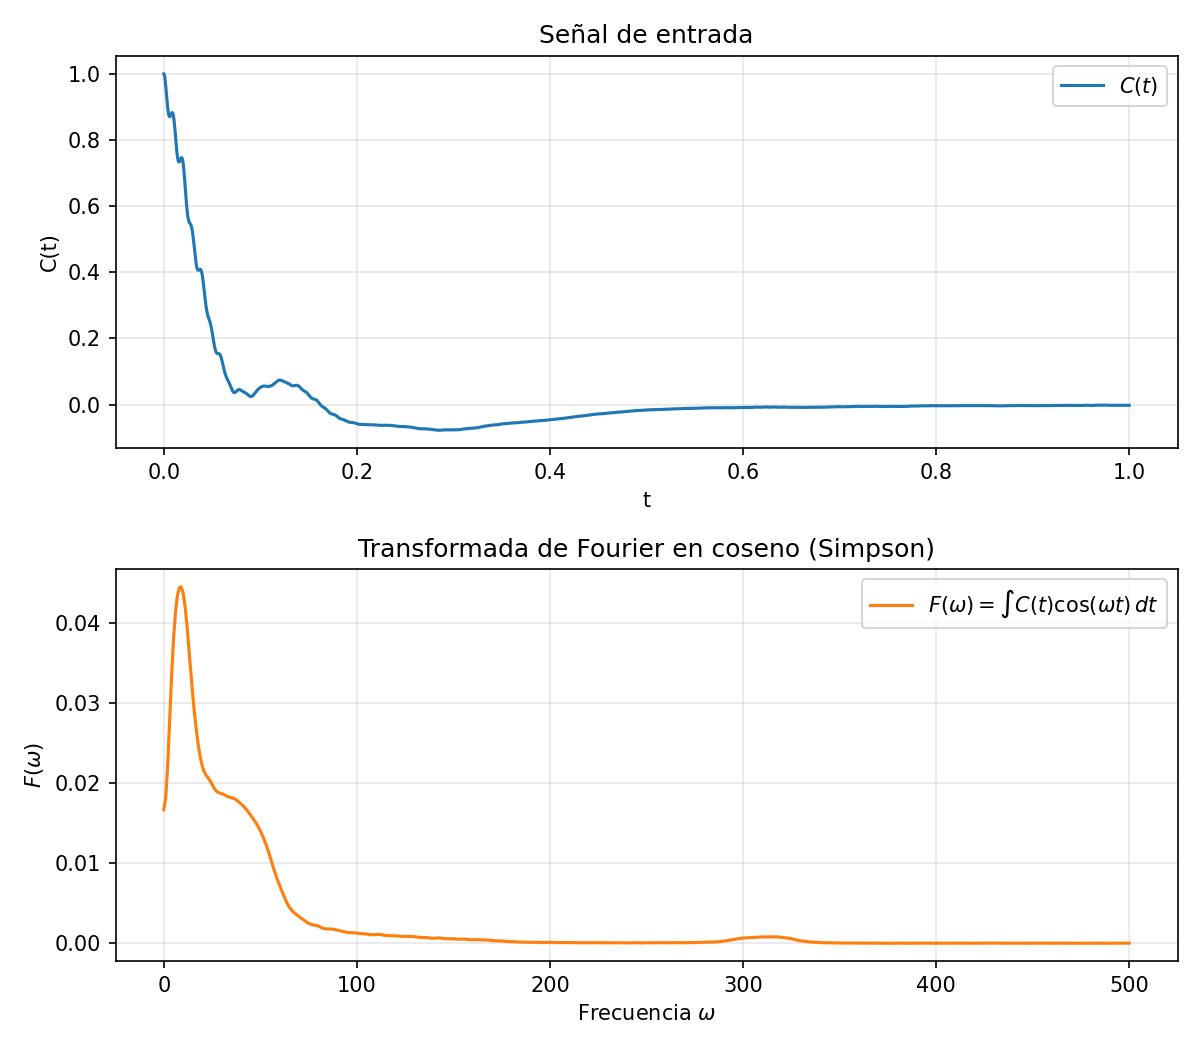
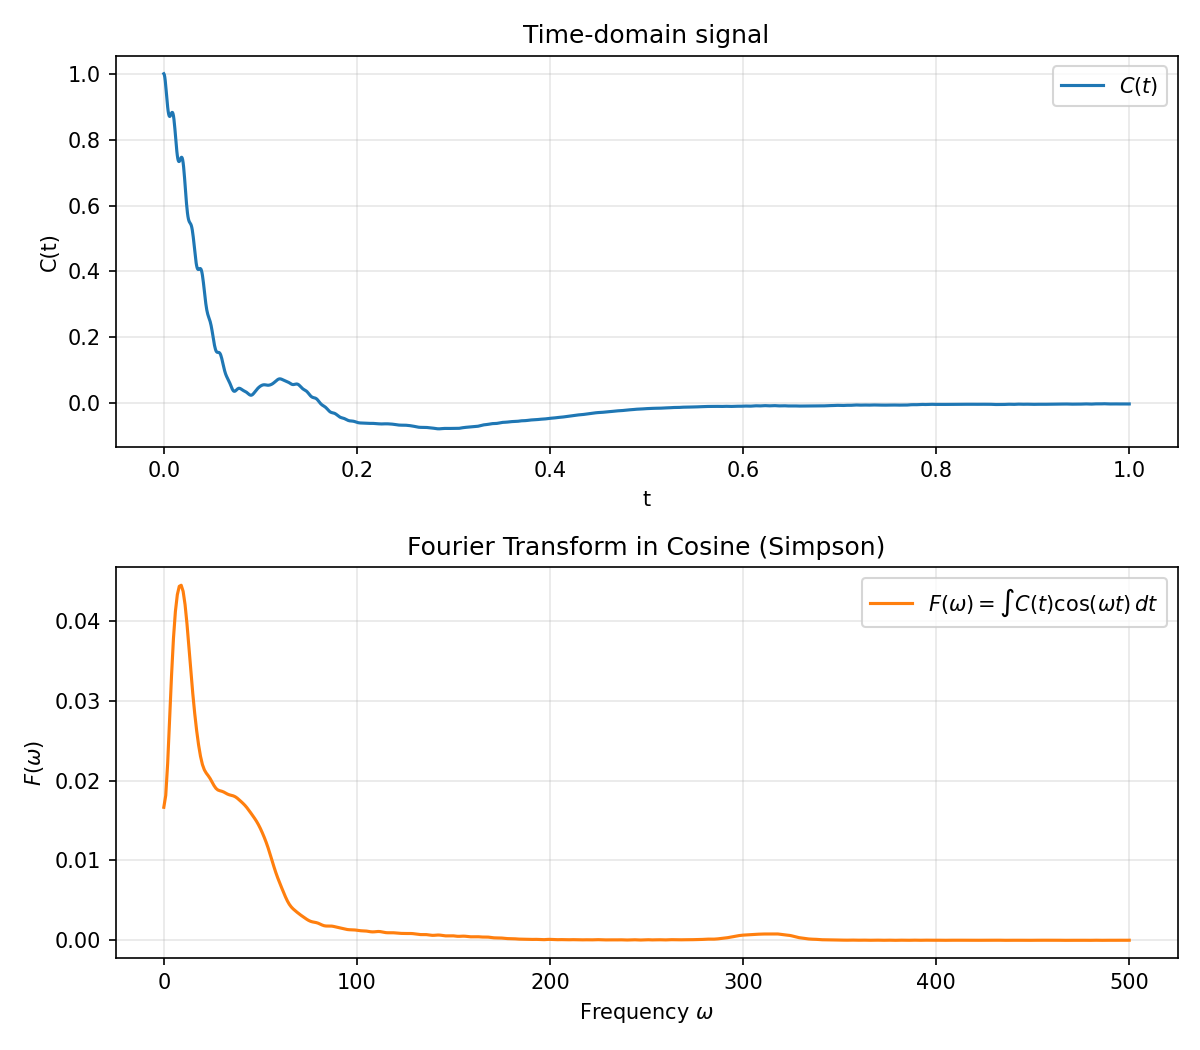
Updated P1 documents in English

diff --git a/P1/ex5/plot_ex5.py b/P1/ex5/plot_ex5.py
@@ -4,10 +4,10 @@ import numpy as np
 
 # Carga de archivos .dat omitiendo la cabecera de texto con skiprows=1
 t_001, x_001, _ = np.loadtxt("euler_001.dat", skiprows=1, unpack=True)
-t_01,  x_01,  _ = np.loadtxt("euler_01.dat",  skiprows=1, unpack=True)
-t_02,  x_02,  _ = np.loadtxt("euler_02.dat",  skiprows=1, unpack=True)
+t_01, x_01, _ = np.loadtxt("euler_01.dat", skiprows=1, unpack=True)
+t_02, x_02, _ = np.loadtxt("euler_02.dat", skiprows=1, unpack=True)
 t_prd, x_prd, _ = np.loadtxt("euler_predictor.dat", skiprows=1, unpack=True)
-t_ver, x_ver, _ = np.loadtxt("verlet.dat",    skiprows=1, unpack=True)
+t_ver, x_ver, _ = np.loadtxt("verlet.dat", skiprows=1, unpack=True)
 
 # Solución analítica del oscilador armónico: x(t) = x_0 * cos(omega * t)
 # omega = sqrt(k / m) = sqrt(2.0 / 0.2) = sqrt(10) ≈ 3.1622777
@@ -19,23 +19,41 @@ x_exact = 0.05 * np.cos(omega * t_fine)
 fig, (ax1, ax2) = plt.subplots(2, 1, figsize=(8, 7), sharex=True)
 
 # Panel 1: Efecto del cambio de paso de tiempo dt en el método de Euler
-ax1.plot(t_fine, x_exact, color="black", linestyle="--", linewidth=1.2, label="Analítica", alpha=0.7)
-ax1.plot(t_001,  x_001,  color="#1f77b4", linewidth=1.0, label=r"Euler $\Delta t = 0.001$")
-ax1.plot(t_01,   x_01,   color="#ff7f0e", linewidth=1.2, label=r"Euler $\Delta t = 0.01$")
-ax1.plot(t_02,   x_02,   color="#2ca02c", linewidth=1.2, label=r"Euler $\Delta t = 0.02$")
-ax1.set_ylabel("Posición $x$ (m)")
-ax1.set_title("Influencia del paso temporal $\Delta t$ en el método de Euler")
+ax1.plot(
+    t_fine,
+    x_exact,
+    color="black",
+    linestyle="--",
+    linewidth=1.2,
+    label="Analytical",
+    alpha=0.7,
+)
+ax1.plot(
+    t_001, x_001, color="#1f77b4", linewidth=1.0, label=r"Euler $\Delta t = 0.001$"
+)
+ax1.plot(t_01, x_01, color="#ff7f0e", linewidth=1.2, label=r"Euler $\Delta t = 0.01$")
+ax1.plot(t_02, x_02, color="#2ca02c", linewidth=1.2, label=r"Euler $\Delta t = 0.02$")
+ax1.set_ylabel("Position $x$ (m)")
+ax1.set_title("Influence of the time step $\Delta t$ on the Euler method")
 ax1.grid(True, alpha=0.25)
 ax1.legend(loc="upper left")
 
 # Panel 2: Comparativa de integradores para el mismo paso dt = 0.02 s
-ax2.plot(t_fine, x_exact, color="black", linestyle="--", linewidth=1.2, label="Analítica", alpha=0.7)
-ax2.plot(t_02,   x_02,   color="#ff7f0e", linewidth=1.2, label="Euler estándar", alpha=0.8)
-ax2.plot(t_prd,  x_prd,  color="#9467bd", linewidth=1.5, label="Euler Predictor")
-ax2.plot(t_ver,  x_ver,  color="#d62728", linewidth=1.5, label="Verlet")
-ax2.set_xlabel("Tiempo $t$ (s)")
-ax2.set_ylabel("Posición $x$ (m)")
-ax2.set_title(r"Comparación de métodos numéricos para $\Delta t = 0.02$ s")
+ax2.plot(
+    t_fine,
+    x_exact,
+    color="black",
+    linestyle="--",
+    linewidth=1.2,
+    label="Analytical",
+    alpha=0.7,
+)
+ax2.plot(t_02, x_02, color="#ff7f0e", linewidth=1.2, label="Euler standard", alpha=0.8)
+ax2.plot(t_prd, x_prd, color="#9467bd", linewidth=1.5, label="Euler Predictor")
+ax2.plot(t_ver, x_ver, color="#d62728", linewidth=1.5, label="Verlet")
+ax2.set_xlabel("Time $t$ (s)")
+ax2.set_ylabel("Position $x$ (m)")
+ax2.set_title(r"Comparison of numerical methods for $\Delta t = 0.02$ s")
 ax2.grid(True, alpha=0.25)
 ax2.legend(loc="upper left")
 
@@ -44,4 +62,4 @@ fig.tight_layout()
 fig.savefig("ex5_plot.png", dpi=200)
 plt.show()
 
-print("Gráfico generado y guardado como ex5_plot.png")
+print("Graph generated and saved as ex5_plot.png")

diff --git a/P1/ex4/plot_ex4.py b/P1/ex4/plot_ex4.py
@@ -12,19 +12,21 @@ A_exact = 4.0 * (1.0 + np.log(11.0))
 fig, (ax_a, ax_err) = plt.subplots(2, 1, figsize=(8, 7), sharex=True)
 
 ax_a.plot(N, A_average, "o-", color="C0", label=r"$A_{\mathrm{average}}$")
-ax_a.axhline(A_exact, color="C3", linestyle="--", linewidth=1.2, label=r"$A_{\mathrm{exact}}$")
-ax_a.set_ylabel("Área")
-ax_a.set_title("Estimación Monte Carlo del área")
+ax_a.axhline(
+    A_exact, color="C3", linestyle="--", linewidth=1.2, label=r"$A_{\mathrm{exact}}$"
+)
+ax_a.set_ylabel("Area")
+ax_a.set_title("Estimated Area using Monte Carlo simulation")
 ax_a.legend()
 ax_a.grid(True, alpha=0.3)
 
 ax_err.plot(N, A_deviation, "o-", color="C1", label=r"$A_{\mathrm{deviation}}$")
-ax_err.set_xlabel("Número de puntos N")
-ax_err.set_ylabel("Desviación RMS")
+ax_err.set_xlabel("Number of points N")
+ax_err.set_ylabel("RMS Deviation")
 ax_err.legend()
 ax_err.grid(True, alpha=0.3)
 
 fig.tight_layout()
 fig.savefig(PLOT_FILE, dpi=150)
 plt.show()
-print(f"Gráfico guardado en {PLOT_FILE}")
+print(f"Plot saved to {PLOT_FILE}")

diff --git a/P1/ex2/plot_ex2.py b/P1/ex2/plot_ex2.py
@@ -15,16 +15,16 @@ fig, (ax1, ax2) = plt.subplots(2, 1, figsize=(7, 6), sharex=True)
 
 # Panel 1: Aproximación de Pi
 ax1.plot(k, pi_aprox, color="#1f77b4", lw=1.2, label=r"$\pi_{\mathrm{aprox}}$")
-ax1.axhline(np.pi, color="#d62728", ls="--", lw=1.2, label=r"$\pi$ exacto")
-ax1.set_title("Convergencia de la serie de Leibniz", fontsize=11)
-ax1.set_ylabel(r"Valor de $\pi$")
+ax1.axhline(np.pi, color="#d62728", ls="--", lw=1.2, label=r"Exact $\pi$")
+ax1.set_title("Leibniz series convergence", fontsize=11)
+ax1.set_ylabel(r"$\pi_{\mathrm{approx}}$")
 ax1.grid(True, alpha=0.25)
 ax1.legend(loc="upper right")
 
 # Panel 2: Error absoluto
 ax2.plot(k, error, color="#ff7f0e", lw=1.2, label=r"$|\pi_{\mathrm{aprox}} - \pi|$")
 ax2.set_yscale("log")
-ax2.set_xlabel("Iteración (K)")
+ax2.set_xlabel("k-th Iteration")
 ax2.set_ylabel("Error")
 ax2.grid(True, which="both", alpha=0.25)
 ax2.legend(loc="upper right")

diff --git a/P1/ex3/plot_ex3.py b/P1/ex3/plot_ex3.py
@@ -15,14 +15,14 @@ fig, (ax_c, ax_f) = plt.subplots(2, 1, figsize=(8, 7))
 ax_c.plot(t, C, color="C0", label=r"$C(t)$")
 ax_c.set_xlabel("t")
 ax_c.set_ylabel("C(t)")
-ax_c.set_title("Señal de entrada")
+ax_c.set_title("Time-domain signal")
 ax_c.legend()
 ax_c.grid(True, alpha=0.3)
 
 ax_f.plot(w, F, color="C1", label=r"$F(\omega)=\int C(t)\cos(\omega t)\,dt$")
-ax_f.set_xlabel(r"Frecuencia $\omega$")
+ax_f.set_xlabel(r"Frequency $\omega$")
 ax_f.set_ylabel(r"$F(\omega)$")
-ax_f.set_title("Transformada de Fourier en coseno (Simpson)")
+ax_f.set_title("Fourier Transform in Cosine (Simpson)")
 ax_f.legend()
 ax_f.grid(True, alpha=0.3)
 
